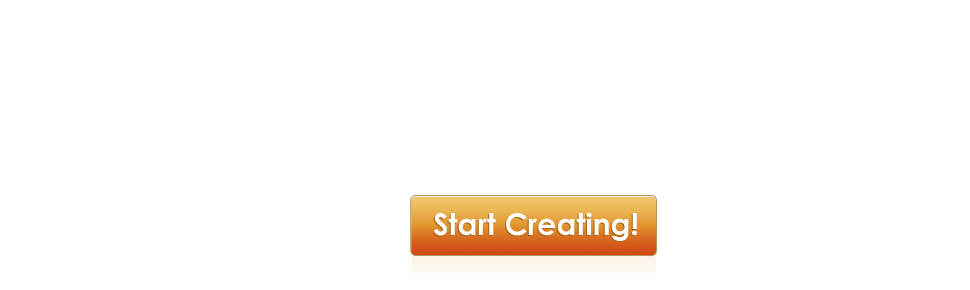
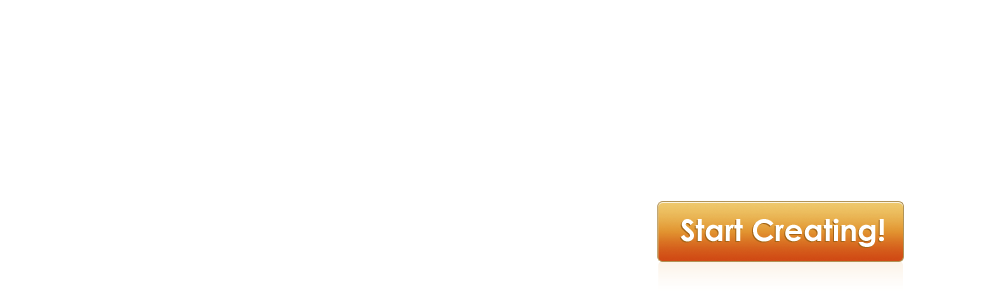
ll

Changed region(s): [[0.4021, 0.6517, 0.9278, 0.9]]

diff --git a/quest/lfstheme/templates/lfs/shop/shop.html b/quest/lfstheme/templates/lfs/shop/shop.html
@@ -37,69 +37,72 @@
     		</div>
     	
     		<div class="image-container" id="im-r-r1">
-    			<img src="{{ STATIC_URL }}img/HpAnim_0001s_0006_Layer-158.png" alt="" />
+    			<img src="{{ STATIC_URL }}img/HpAnim_0001s_0008_Layer-158.png" alt="" />
     		</div>
     		<div class="image-container" id="im-r-r2">
-    			<img src="{{ STATIC_URL }}img/HpAnim_0001s_0004_Layer-156.png" alt="" />
+    			<img src="{{ STATIC_URL }}img/HpAnim_0001s_0006_Layer-156.png" alt="" />
     		</div>
     		<div class="image-container" id="im-r-r3">
-    			<img src="{{ STATIC_URL }}img/HpAnim_0001s_0005_Layer-157.png" alt="" />
+    			<img src="{{ STATIC_URL }}img/HpAnim_0001s_0007_Layer-157.png" alt="" />
     		</div>
     		
     		<div class="image-container" id="im-r-l1">
-    			<img src="{{ STATIC_URL }}img/HpAnim_0001s_0003_Layer-161.png" alt="" />
+    			<img src="{{ STATIC_URL }}img/HpAnim_0001s_0005_Layer-161.png" alt="" />
     		</div>
     		<div class="image-container" id="im-r-l2">
-    			<img src="{{ STATIC_URL }}img/HpAnim_0001s_0001_Layer-159.png" alt="" />
+    			<img src="{{ STATIC_URL }}img/HpAnim_0001s_0003_Layer-159.png" alt="" />
     		</div>
     		<div class="image-container" id="im-r-l3">
-    			<img src="{{ STATIC_URL }}img/HpAnim_0001s_0002_Layer-160.png" alt="" />
+    			<img src="{{ STATIC_URL }}img/HpAnim_0001s_0004_Layer-160.png" alt="" />
     		</div>
     		
 
     		<div class="image-container" id="im-p-l1">
-    			<img src="{{ STATIC_URL }}img/HpAnim_0001s_0011_Layer-162.png" alt="" />
+    			<img src="{{ STATIC_URL }}img/HpAnim_0001s_0013_Layer-162.png" alt="" />
     		</div>
     		<div class="image-container" id="im-p-l2">
-    			<img src="{{ STATIC_URL }}img/HpAnim_0001s_0012_Layer-163.png" alt="" />
+    			<img src="{{ STATIC_URL }}img/HpAnim_0001s_0014_Layer-163.png" alt="" />
     		</div>
     		<div class="image-container" id="im-p-l3">
-    			<img src="{{ STATIC_URL }}img/HpAnim_0001s_0013_Layer-152.png" alt="" />
+    			<img src="{{ STATIC_URL }}img/HpAnim_0001s_0015_Layer-152.png" alt="" />
     		</div>
 			<div class="image-container" id="im-p-l4">
-    			<img src="{{ STATIC_URL }}img/HpAnim_0001s_0014_Layer-131.png" alt="" />
+    			<img src="{{ STATIC_URL }}img/HpAnim_0001s_0016_Layer-131.png" alt="" />
     		</div>
     		
     		<div class="image-container" id="im-p-l5">
-    			<img src="{{ STATIC_URL }}img/HpAnim_0001s_0015_Layer-164.png" alt="" />
+    			<img src="{{ STATIC_URL }}img/HpAnim_0001s_0017_Layer-164.png" alt="" />
     		</div>
     		<div class="image-container" id="im-p-l6">
-    			<img src="{{ STATIC_URL }}img/HpAnim_0001s_0016_Layer-165.png" alt="" />
+    			<img src="{{ STATIC_URL }}img/HpAnim_0001s_0018_Layer-165.png" alt="" />
     		</div>
     		<div class="image-container" id="im-p-l7">
-    			<img src="{{ STATIC_URL }}img/HpAnim_0001s_0017_Layer-166.png" alt="" />
+    			<img src="{{ STATIC_URL }}img/HpAnim_0001s_0019_Layer-166.png" alt="" />
     		</div>
 			<div class="image-container" id="im-p-l8">
-    			<img src="{{ STATIC_URL }}img/HpAnim_0001s_0018_Layer-167.png" alt="" />
+    			<img src="{{ STATIC_URL }}img/HpAnim_0001s_0020_Layer-167.png" alt="" />
     		</div>
 
 
     		<div class="image-container" id="im-p-c1">
-    			<img src="{{ STATIC_URL }}img/HpAnim_0001s_0009_Layer-120.png" alt="" />
+    			<img src="{{ STATIC_URL }}img/HpAnim_0001s_0011_Layer-120.png" alt="" />
     		</div>
     		<div class="image-container" id="im-p-c2">
-    			<img src="{{ STATIC_URL }}img/HpAnim_0001s_0010_Layer-119.png" alt="" />
+    			<img src="{{ STATIC_URL }}img/HpAnim_0001s_0012_Layer-119.png" alt="" />
     		</div>
     		   		
 			<div class="image-container" id="im-p-r1">
-    			<img src="{{ STATIC_URL }}img/HpAnim_0001s_0007_Layer-154.png" alt="" />
+    			<img src="{{ STATIC_URL }}img/HpAnim_0001s_0009_Layer-154.png" alt="" />
     		</div>
     		<div class="image-container" id="im-p-r2">
-    			<img src="{{ STATIC_URL }}img/HpAnim_0001s_0008_Layer-155.png" alt="" />
+    			<img src="{{ STATIC_URL }}img/HpAnim_0001s_0010_Layer-155.png" alt="" />
     		</div>
     		
     		<div class="image-container" id="hpbutton" style="margin-left:5px;margin-top:2px; z-index: 55;">
     			<img src="{{ STATIC_URL }}img/HpButtonWithBG.png" alt="" />
+    		</div>
+    		<div class="image-container" id="hppreview" style="margin-left:5px;margin-top:2px; z-index: 55;">
+    			<img src="{{ STATIC_URL }}img/HpBannerPreview.png" alt="" />
     		</div>
     	</div>
     	<div id="home-message">

diff --git a/quest/explorer/static/js/shop-starter.js b/quest/explorer/static/js/shop-starter.js
@@ -47,6 +47,7 @@ function runPhoneAnimation(start) {
 function runAnimation(){
 	$('#banner-bg').css('display', 'block');
 	$('#hpbutton').css('display', 'block');
+	$('#hppreview').css('display', 'block');
 	runRingAnimation(0);
 	runTransition(10, 3, '#im-r-l1', '#im-p-l1');
 	runTransition(10, 3, '#im-r-c1', '#im-p-c1');

diff --git a/quest/sitestatic/js/shop-starter.js b/quest/sitestatic/js/shop-starter.js
@@ -47,6 +47,7 @@ function runPhoneAnimation(start) {
 function runAnimation(){
 	$('#banner-bg').css('display', 'block');
 	$('#hpbutton').css('display', 'block');
+	$('#hppreview').css('display', 'block');
 	runRingAnimation(0);
 	runTransition(10, 3, '#im-r-l1', '#im-p-l1');
 	runTransition(10, 3, '#im-r-c1', '#im-p-c1');

diff --git a/quest/lfstheme/static/css/main.css b/quest/lfstheme/static/css/main.css
@@ -3021,8 +3021,8 @@ padding: 20px;
 }
 
 #slideshow .image-container IMG {
-	width: 986px;
-	height: 325px;
+	width: 985px;
+	height: 297px;
 	padding: 0px;
 }
 

diff --git a/quest/sitestatic/css/main.css b/quest/sitestatic/css/main.css
@@ -3021,8 +3021,8 @@ padding: 20px;
 }
 
 #slideshow .image-container IMG {
-	width: 986px;
-	height: 325px;
+	width: 985px;
+	height: 297px;
 	padding: 0px;
 }
 
